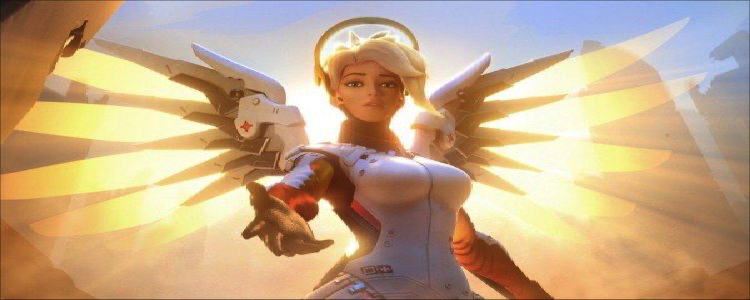
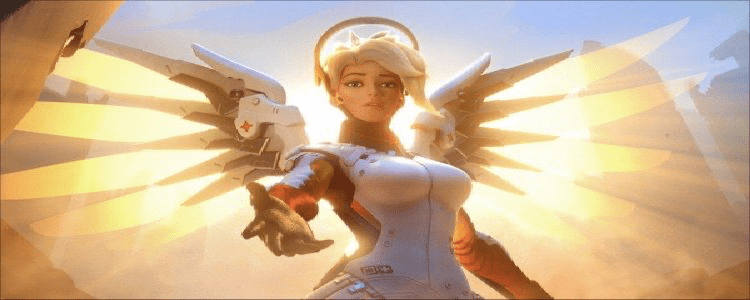
compress img

diff --git a/src/components/ProfileInfo/ProfileInfo.jsx b/src/components/ProfileInfo/ProfileInfo.jsx
@@ -217,7 +217,7 @@ export default function ProfileInfo({ user, profileData, name, profile }) {
 
             </div>
           </div>
-          <div style={{ backgroundColor: 'rgb(0,103,164)', backgroundImage: `url(/${currentHero}.png)`, backgroundPosition:'left', backgroundRepeat: 'no-repeat' }} id="hero-img" className="ui segment">
+          <div style={{ backgroundColor: 'rgb(0,103,164)', backgroundImage: `url(/All.png)`, backgroundPosition:'left', backgroundRepeat: 'no-repeat' }} id="hero-img" className="ui segment">
 
             <p></p>
             <p></p>
